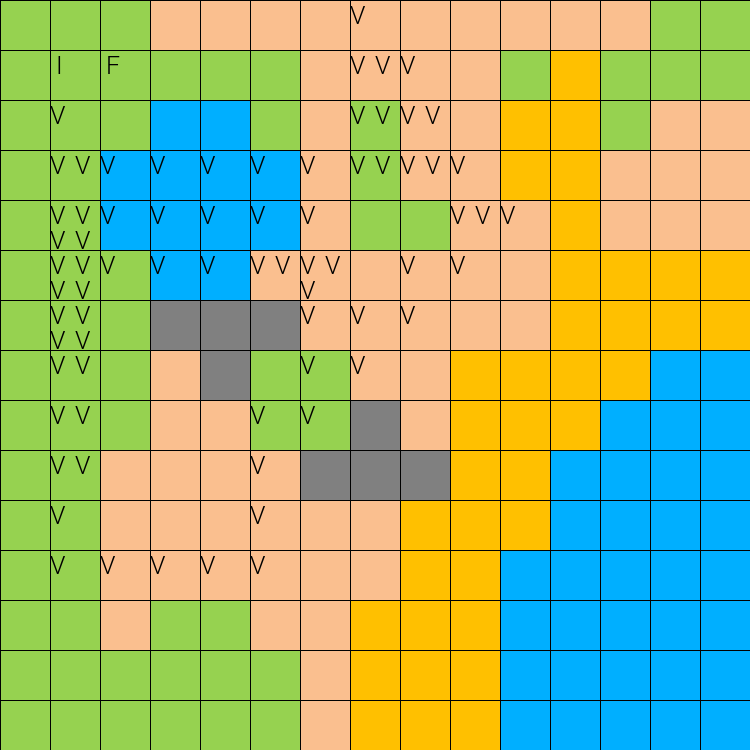
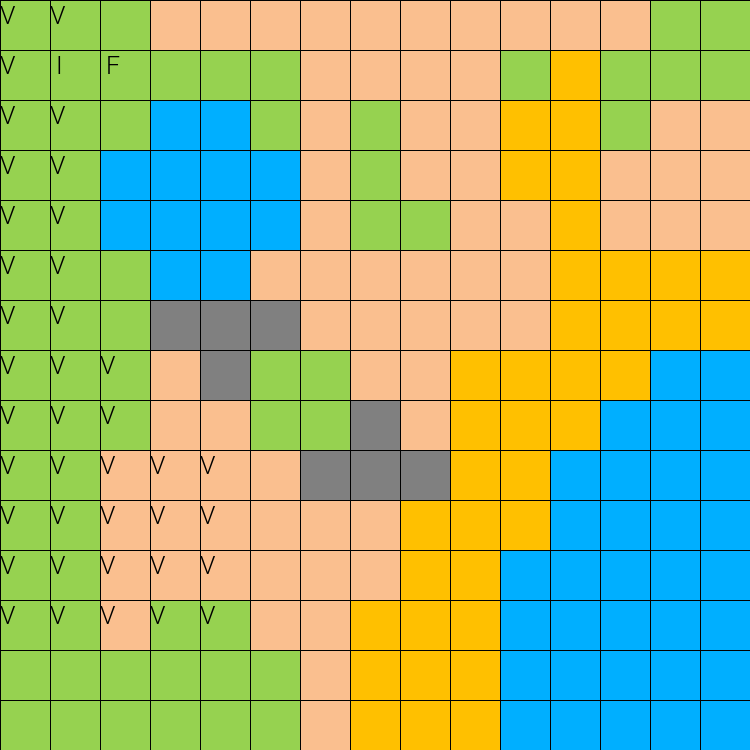
Movimientos en agente FALTA MEMORIA Y ARBOL , TAMBIEN ALAMCENAR LOS DE DESICION

diff --git a/Practica 1/example.py b/Practica 1/example.py
@@ -90,29 +90,35 @@ while running:
         # Move the player if an arrow key is pressed
         if e.type == pygame.KEYDOWN:
             if e.key == pygame.K_LEFT:
-                #valid out of bounds
-                validOOB = agent1.leftCord() 
-                if validOOB[0] != -1 and validOOB[1] != -1 and agent1.isValidPosition(agent1.leftCord()): 
-                    agent1.Stage.textToImage(agent1.ActualCords[1],agent1.ActualCords[0],"V",agent1.Name+".png")
-                    back = pygame.image.load(agent1.Name + ".png")
+                # valid out of bounds
+                validOOB = agent1.leftCord()
+                if validOOB[0] != -1 and validOOB[1] != -1 and agent1.isValidPosition(validOOB):
+                    if not agent1.existsInMemory(validOOB):
+                        agent1.Stage.textToImage(validOOB[1], validOOB[0], "V", agent1.Name + ".png")
+                        back = pygame.image.load(agent1.Name + ".png")
                     player.move(-50, 0)
             if e.key == pygame.K_RIGHT:
-                validOOB = agent1.rightCord() 
-                if validOOB[0] < len(agent1.Stage.stage) and validOOB[1] < len(agent1.Stage.stage) and agent1.isValidPosition(agent1.rightCord()):
-                    agent1.Stage.textToImage(agent1.ActualCords[1],agent1.ActualCords[0],"V",agent1.Name+".png")
-                    back = pygame.image.load(agent1.Name + ".png")
+                validOOB = agent1.rightCord()
+                if validOOB[0] < len(agent1.Stage.stage) and validOOB[1] < len(
+                        agent1.Stage.stage) and agent1.isValidPosition(agent1.rightCord()):
+                    if not agent1.existsInMemory(validOOB):
+                        agent1.Stage.textToImage(validOOB[1], validOOB[0], "V", agent1.Name + ".png")
+                        back = pygame.image.load(agent1.Name + ".png")
                     player.move(50, 0)
             if e.key == pygame.K_UP:
-                validOOB = agent1.upCord() 
+                validOOB = agent1.upCord()
                 if validOOB[0] != -1 and validOOB[1] != -1 and agent1.isValidPosition(agent1.upCord()):
-                    agent1.Stage.textToImage(agent1.ActualCords[1],agent1.ActualCords[0],"V",agent1.Name+".png")
-                    back = pygame.image.load(agent1.Name + ".png")
+                    if not agent1.existsInMemory(validOOB):
+                        agent1.Stage.textToImage(validOOB[1], validOOB[0], "V", agent1.Name + ".png")
+                        back = pygame.image.load(agent1.Name + ".png")
                     player.move(0, -50)
             if e.key == pygame.K_DOWN:
-                validOOB = agent1.downCord() 
-                if validOOB[0] < len(agent1.Stage.stage) and validOOB[1] < len(agent1.Stage.stage) and agent1.isValidPosition(agent1.downCord()):
-                    agent1.Stage.textToImage(agent1.ActualCords[1],agent1.ActualCords[0],"V",agent1.Name+".png")
-                    back = pygame.image.load(agent1.Name + ".png")
+                validOOB = agent1.downCord()
+                if validOOB[0] < len(agent1.Stage.stage) and validOOB[1] < len(
+                        agent1.Stage.stage) and agent1.isValidPosition(agent1.downCord()):
+                    if not agent1.existsInMemory(validOOB):
+                        agent1.Stage.textToImage(validOOB[1], validOOB[0], "V", agent1.Name + ".png")
+                        back = pygame.image.load(agent1.Name + ".png")
                     player.move(0, 50)
 
     # Just added this to make it slightly fun ;)

diff --git a/Practica 1/Image.py b/Practica 1/Image.py
@@ -155,7 +155,7 @@ class Stage:
 class Agent(MovsTerrainCosts, Stage):  # Create the class Agent
 
     def __init__(self, Name, TypeAgent, InitalCords, stageText, FinalCords, AgentSensor=None, AgentMovs=None):
-        # Memory
+            # Memory
         self.memoryCells = []
         # Memory Decisions
         self.memoryCellsDecisions = []
@@ -173,6 +173,7 @@ class Agent(MovsTerrainCosts, Stage):  # Create the class Agent
             print(f"Error con Cordenadas finales")
             exit()
         else:
+            self.addToMemory(giveCords(InitalCords))
             self.InitialCords = giveCords(InitalCords)
             self.ActualCords = giveCords(InitalCords)
             self.FinalCords = giveCords(FinalCords)
@@ -181,7 +182,8 @@ class Agent(MovsTerrainCosts, Stage):  # Create the class Agent
             self.Stage.textToImage(self.FinalCords[0], self.FinalCords[1], " F", self.Name + ".png")
 
     def addToMemory(self, coords):
-        self.memoryCells.append(coords)
+        if not self.existsInMemory(coords):
+            self.memoryCells.append(coords)
 
     def existsInMemory(self, coords):
         return self.memoryCells.__contains__(coords)
@@ -229,28 +231,28 @@ class Agent(MovsTerrainCosts, Stage):  # Create the class Agent
     def movLeft(self):
         if self.isValidPosition(self.leftCord()):
             self.ActualCords = self.leftCord()
-            self.memoryCells.append(giveNumLetter(self.ActualCords))
+            self.addToMemory(self.ActualCords)
             print(f"{self.ActualCords}.")
             self.numMovs += 1
 
     def movRight(self):
         if self.isValidPosition(self.rightCord()):
             self.ActualCords = self.rightCord()
-            self.memoryCells.append(giveNumLetter(self.ActualCords))
+            self.addToMemory(self.ActualCords)
             print(f"{self.ActualCords}.")
             self.numMovs += 1
 
     def movUp(self):
         if self.isValidPosition(self.upCord()):
             self.ActualCords = self.upCord()
-            self.memoryCells.append(giveNumLetter(self.ActualCords))
+            self.addToMemory(self.ActualCords)
             print(f"{self.ActualCords}.")
             self.numMovs += 1
 
     def movDown(self):
         if self.isValidPosition(self.downCord()):
             self.ActualCords = self.downCord()
-            self.memoryCells.append(giveNumLetter(self.ActualCords))
+            self.addToMemory(self.ActualCords)
             print(f"{self.ActualCords}.")
             self.numMovs += 1
 
